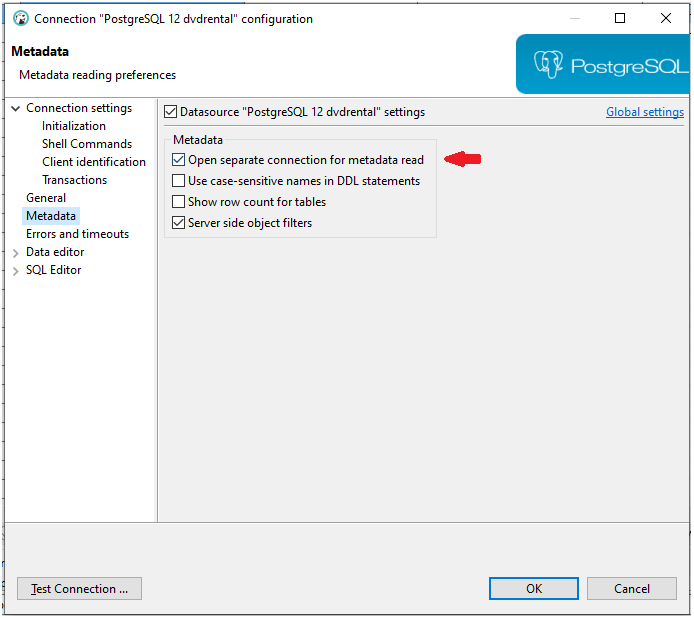
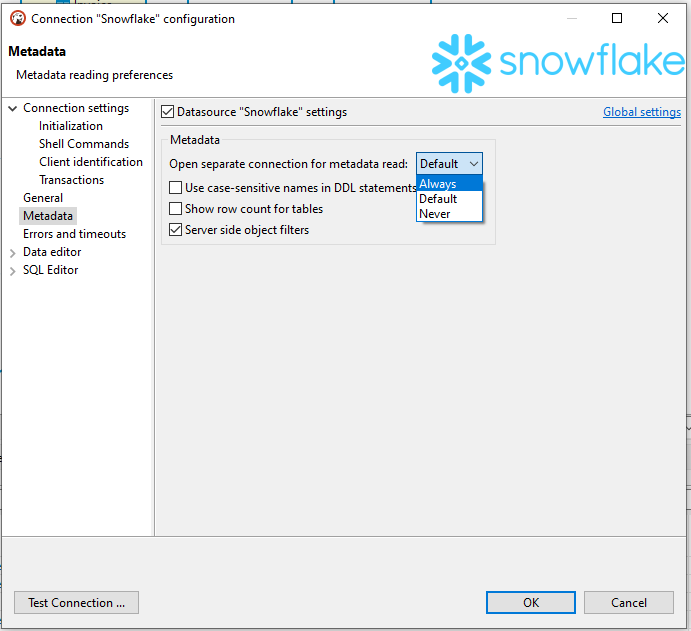
#17975 Update wiki about separate connection options

Changed region(s): [[0.0, 0.0, 1.0, 1.0], [0.699, 0.3074, 0.7294, 0.3382]]

diff --git a/Separate-Connections.md b/Separate-Connections.md
@@ -1,4 +1,11 @@
-By default DBeaver creates separate connections for SQL Editor and Metadata read.
+By default, DBeaver creates separate connections for SQL Editor and Metadata read for most databases except these:
+- SQLServer Azure AD MFA
+- BigQuery
+- BigTable
+- Spanner
+- Apache Hadoop, Apache Drill, Apache Kyuubi, Apache Spark, Apache Hive, SnappyData, Gemfire XD, Apache Phoenix
+- Redshift
+- Snowflake
 
 Opening separate metadata connection may increase performance because there will be no UI locks during query execution.
 
@@ -9,13 +16,4 @@ You can set up opening separate connection for metadata read globally in Prefere
 The setting to turn on/off opening separate connection for each editor is available in Preferences->Editors->SQL Editor and Connection configuration->SQL Editor and Connection configuration->Metadata.
 
 ![](images/separate-connection-meta.png)
-
-That works for most databases except these:
-- SQLServer Azure AD MFA
-- BigQuery
-- BigTable
-- Spanner
-- Apache Hadoop, Apache Drill, Apache Kyuubi, Apache Spark, Apache Hive, SnappyData, Gemfire XD, Apache Phoenix
-- Redshift
-- Snowflake
 
